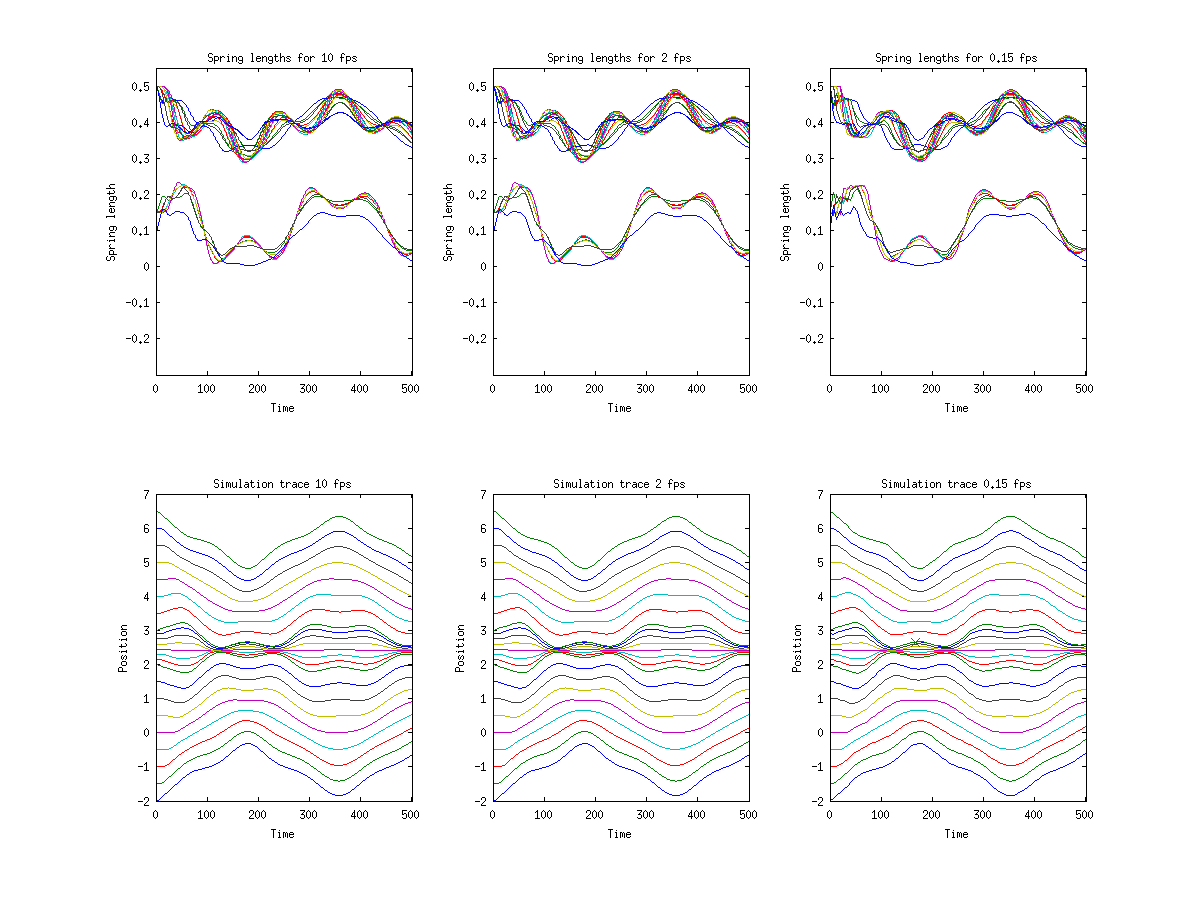
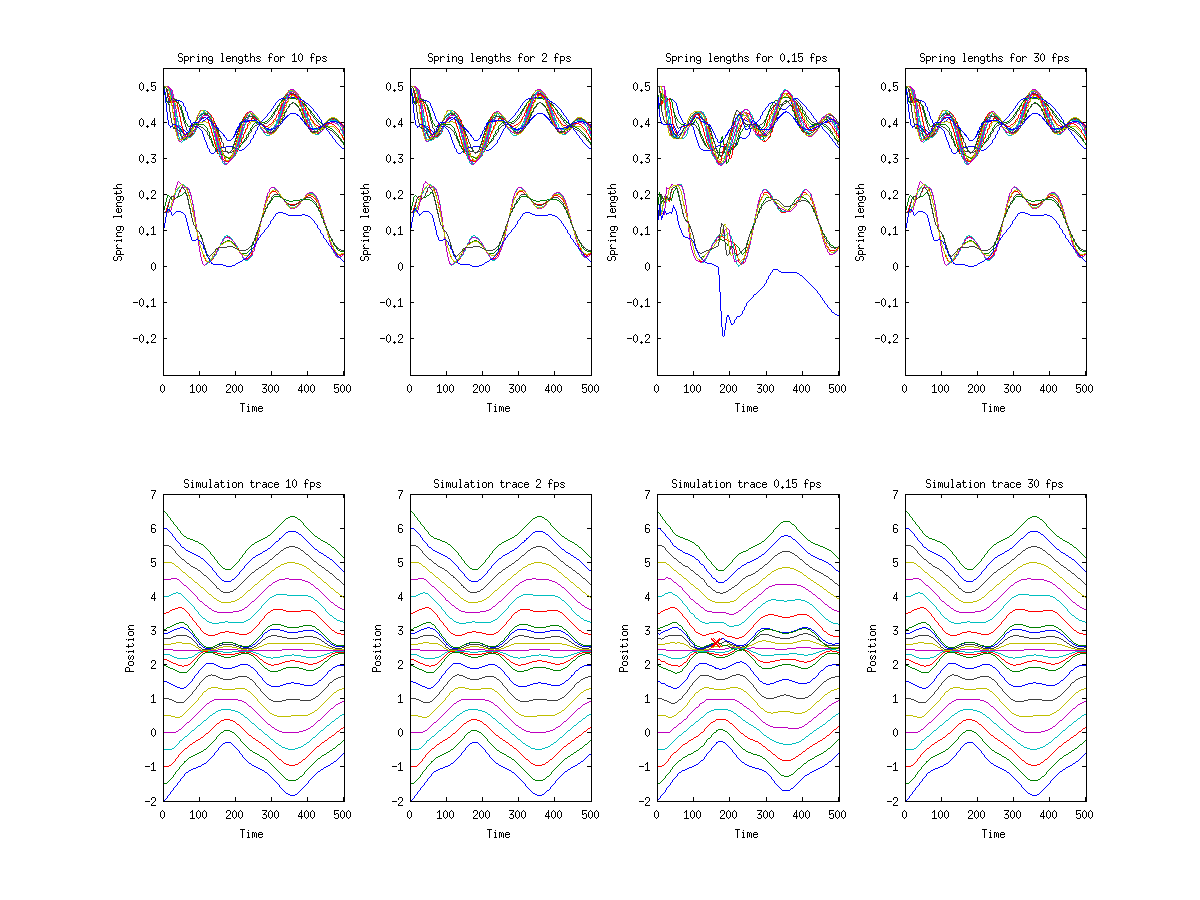
Cleanup of code and report

diff --git a/report/contract.tex b/report/contract.tex
@@ -26,15 +26,16 @@ Course specific learning goals:
 Project specific learning goals:
 \begin{enumerate}
     \item Implement local adaptive optimization of timesteps (LAOT)
-	\item Evaluate LAOT to minimize the risk of unwanted deformations in grids.
+	\item Evaluate LAOT to minimize the risk of unwanted deformations in grids
+        and minimize the computational cost.
     \item Discuss how LAOT is performed in practice using existing 2nd order optimization methods.
-    \item Study of convergence on implemented methods.
 \end{enumerate}
 
 \section{Problem Description}
 
 \subsection{Problem Statement}
-Study the application of locally adaptive timestepping in simulation of hyperelastic materials.
+Study the application of locally adaptive timestepping in 1 dimensional
+simulation of a mass spring system.
 
 \subsection{Motivation}
 When running a simulation of large hyperelastic materials we wish to make
@@ -44,7 +45,8 @@ the mesh from curling up or exploding due to too large determinants of the
 moving mesh vertices. In some hyperelastic materials most of the
 discretized points are able to be simulated using larger timesteps whereas
 smaller areas might need smaller timesteps. These situations are the ones
-we wish to accomodate in this paper.
+we wish to accomodate in this paper by gaining insight into the area of LAOT in
+a simple 1 dimensional simulation (mass spring system).
 
 \subsection{Proposed solution}
 We wish to develop a method for locally adapting the timestep size in
@@ -57,11 +59,7 @@ areas of the grid with smaller timesteps.
 To gain insight into the application of LAOT.
 
 \subsection{Risk assessment}
-Low to none. The technique has been performed before in various shapes and it
-should therefore be do-able.
-
-\cite{Keshav:2007}
-\bibliography{bibliography}
-\bibliographystyle{plain}
+Medium. The technique of LAOT has been performed before in various shapes but
+not the same as our proposed solution.
 
 \end{document}

diff --git a/src/1D/switch/springForces.m b/src/1D/switch/springForces.m
@@ -1,4 +1,5 @@
 function [F, dx] = springForces(positions, springs, v, K, x0, C)
+    element = false;
     % Initialize internal variables
     cntS = size(springs,1);
     cntP = size(positions,1);
@@ -9,23 +10,41 @@ function [F, dx] = springForces(positions, springs, v, K, x0, C)
     dx = zeros(cntS,1);
 
     % Calculate force F of each spring
-    for s = 1:cntS
-        % Endpoints of spring
-        from = springs(s,1);
-        to = springs(s,2);
+    if element
+        for s = 1:cntS
+            % Endpoints of spring
+            from = springs(s,1);
+            to = springs(s,2);
 
-        % Lengh of spring
-        dx(s) = springLength(positions, springs(s,:));
-        l = abs(dx(s));
+            % Lengh of spring
+            dx(s) = springLength(positions, springs(s,:));
+            l = abs(dx(s));
 
-        % Force calculation
-        Fs = K(s) * (l - x0(s));                        % Spring force
-        Fs = Fs + C(s) * (v(from) - v(to)) * dx(s) / l; % Dampening
-        Fs = Fs * (- dx(s) / l);                        % Direction
+            % Force calculation
+            Fs = K(s) * (l - x0(s));                        % Spring force
+            Fs = Fs + C(s) * (v(from) - v(to)) * dx(s) / l; % Dampening
+            Fs = Fs * (- dx(s) / l);                        % Direction
+
+            % Apply forces to endpoints
+            F(from,1) = F(from,1) + Fs;
+            F(to,2) = F(to,2) - Fs;
+        end
+    else
+        % Matrix alternative to spring (element) wise computation
+        from = springs(:,1);
+        to   = springs(:,2);
+
+        dx = springLength(positions, springs);
+        l  = abs(dx);
+
+        Fs = K .* (l - x0);
+        Fs = Fs + C .* (v(from) - v(to)) .* dx ./ l;
+        Fs = Fs .* (-dx ./ l);
 
         % Apply forces to endpoints
         F(from,1) = F(from,1) + Fs;
-        F(to,2) = F(to,2) - Fs;
+        F(to,2)   = F(to,2) - Fs;
+
     end
 
 end

diff --git a/report/report.tex b/report/report.tex
@@ -23,18 +23,18 @@
 \clearpage
 
 \section{Introduction}
-Simulations of large (order of millions of vertices) hyper elastic materials
-are very time consuming. When working with materials of varying density
+simulations of large (order of millions of vertices) hyper elastic materials
+are very time consuming. when working with materials of varying density
 of vertices, the highest densities often make the most strict bounds on
 size of the time step of the simulation in order to keep the materials (and
-grids) stable and the discretization correct. In a ``standard'' simulation
+grids) stable and the discretization correct. in a ``standard'' simulation
 with a global time step size we need to compute possibly unnecessarily many
 computations on the coarser parts of the material caused by this bound.
-When furthermore having materials with a large amount of somewhat equally
+when furthermore having materials with a large amount of somewhat equally
 distributed vertices and smaller patches of detailed areas with higher density
 of vertices, it would be an advantage to be able to perform large time steps
 for the majority of the material and smaller steps for the local patches when
-vertices cause instability. We call this concept local adaptive optimization
+vertices cause instability. we call this concept local adaptive optimization
 of time step, which we will study further in this report.
 
 \section{Previous work}
@@ -114,12 +114,15 @@ Midpoint method:
 
 \section{Experiments and results}
 
-\subsection{Initial though}
-Normal timestepping with switch detection and refinement
+\subsection{Switch}
 
-\subsection{Stepping with interpolation and lockout of re-calculations}
+\subsection{Spatial LAOT}
+
+\subsection{Inverse}
 
 \section{Discussion}
+
+Adaptive timestepping based on highest acceleration/smallest grid
 
 \section{Conclusion}
 

diff --git a/src/1D/initSim.m b/src/1D/initSim.m
@@ -1,0 +1,35 @@
+function simConst = initSim(simulation)
+    switch simulation
+        case 'simple'
+            simConst = struct(...
+                        'damping',   0.01,...
+                        'stiffness', 0.5,...
+                        'spX0',      0.6,...
+                        'mass',      30,...
+                        'particles', [-2:2:2]'...
+                       );
+        case 'inverse'
+            simConst = struct(...
+                        'damping',   0.1,...
+                        'stiffness', 0.5,...
+                        'spX0',      0.52,...
+                        'mass',      30,...
+                        'particles', [-2:2:2]'...
+                       );
+        case 'multiscale'
+            simConst = struct(...
+                        'damping',   0.01,...
+                        'stiffness', 0.5,...
+                        'spX0',      0.6,...
+                        'mass',      30,...
+                        'particles', [-2:0.5:1.99, 2:0.15:2.99, 3:0.5:6.99]'...
+                       );
+        otherwise
+            simConst = struct(...
+                        'damping',   0.5,...
+                        'stiffness', 0.5,...
+                        'spX0',      0.785,...
+                        'mass',      30,...
+                        'particles', [-2:0.5:1.99, 2:0.15:2.99,3:0.5:6.99]'...
+                       );
+end

diff --git a/src/1D/springForces.m b/src/1D/springForces.m
@@ -1,4 +1,4 @@
-function [F, dx] = springForces(positions, springs, lUpdate, v, K, x0, C)
+function [F, dx] = springForces(positions, springs, v, K, x0, C)
     element = false;
     % Initialize internal variables
     cntS = size(springs,1);
@@ -16,7 +16,7 @@ function [F, dx] = springForces(positions, springs, lUpdate, v, K, x0, C)
             from = springs(s,1);
             to = springs(s,2);
 
-            % Lengh of spring
+            % Lenght of spring
             dx(s) = springLength(positions, springs(s,:));
             l = abs(dx(s));
 
@@ -34,13 +34,15 @@ function [F, dx] = springForces(positions, springs, lUpdate, v, K, x0, C)
         from = springs(:,1);
         to   = springs(:,2);
 
+        % Length of spring
         dx = springLength(positions, springs);
         l  = abs(dx);
 
-        Fs = K .* (l - x0);
-        Fs = Fs + C .* (v(from) - v(to)) .* dx ./ l;
-        Fs = Fs .* (-dx ./ l);
+        Fs = K .* (l - x0);                             % Spring force
+        Fs = Fs + C .* (v(from) - v(to)) .* dx ./ l;    % Dampening
+        Fs = Fs .* (-dx ./ l);                          % Direction
 
+        % Apply forces to endpoints
         F(from,1) = F(from,1) + Fs;
         F(to,2)   = F(to,2) - Fs;
 

diff --git a/src/1D/atomic/atomicSim.m b/src/1D/atomic/atomicSim.m
@@ -28,7 +28,6 @@ function [positions, lengths, times, switches, active] = springSim(fps, t_stop, 
     spK = ones(cntS,1) * 0.5;   % Stiffness
     spX0 = pP(sp);
     spX0 = abs(spX0(:,1) - spX0(:,2)) * 0.6;
-    spD = ones(cntS,1) * 0.1;   % Viscous drag
     spL = springLength(pP,sp);  % Length at last update
     spSteps = zeros(cntS,1);    % Number of steps since last update
 
@@ -50,7 +49,7 @@ function [positions, lengths, times, switches, active] = springSim(fps, t_stop, 
         active(end+1) = length(spA);
 
         % Force calculation of active springs/particles
-        [pF dx] = springForces(pP, sp(spA,:), spL, pV,...
+        [pF dx] = springForces(pP, sp(spA,:), pV,...
                                    spK(spA), spX0(spA), spC(spA));
 
         % Position and velocity update
@@ -58,7 +57,7 @@ function [positions, lengths, times, switches, active] = springSim(fps, t_stop, 
         % Detect collisions / switches in position
         l = springLength(pP + dp, sp);
         l2 = springLength(pP, sp);
-        mask = (l .* l2 < 0) & (l+l2 < 0);
+        mask = l .* l2 < 0;
         if any(mask)
             disp('Switch in next iteration!');
             disp(time);

diff --git a/src/1D/atomicSim.m b/src/1D/atomicSim.m
@@ -28,7 +28,6 @@ function [positions, lengths, times, switches, active] = springSim(fps, t_stop, 
     spK = ones(cntS,1) * 0.5;   % Stiffness
     spX0 = pP(sp);
     spX0 = abs(spX0(:,1) - spX0(:,2)) * 0.6;
-    spD = ones(cntS,1) * 0.1;   % Viscous drag
     spL = springLength(pP,sp);  % Length at last update
     spSteps = zeros(cntS,1);    % Number of steps since last update
 
@@ -50,7 +49,7 @@ function [positions, lengths, times, switches, active] = springSim(fps, t_stop, 
         active(end+1) = length(spA);
 
         % Force calculation of active springs/particles
-        [pF dx] = springForces(pP, sp(spA,:), spL, pV,...
+        [pF dx] = springForces(pP, sp(spA,:), pV,...
                                    spK(spA), spX0(spA), spC(spA));
 
         % Position and velocity update
@@ -58,7 +57,7 @@ function [positions, lengths, times, switches, active] = springSim(fps, t_stop, 
         % Detect collisions / switches in position
         l = springLength(pP + dp, sp);
         l2 = springLength(pP, sp);
-        mask = (l .* l2 < 0) & (l+l2 < 0);
+        mask = l .* l2 < 0;
         if any(mask)
             disp('Switch in next iteration!');
             disp(time);

diff --git a/src/1D/run.m b/src/1D/run.m
@@ -1,0 +1,49 @@
+% Clear environment
+clear all;
+close all;
+clc;
+
+% Set up simulation parameters
+t_stop = 500;
+
+
+%% Atomic:
+fpses =      [10, 10, 30];
+stepBounds = [100, 100, 1];
+rFactors =   [inf,  0.2, inf];
+results = cell(length(fpses),5);
+
+% Perform simulations
+for i = 1:length(fpses)
+    disp(fpses(i));
+    [results{i,1}, results{i,2}, results{i,3}, results{i,4}, results{i,5}] = atomicSim(fpses(i),t_stop,stepBounds(i), rFactors(i));
+end
+
+displaySim(results, fpses);
+
+%% Inverse
+fpses =      [10,30];
+stepBounds = [1, 1];
+rFactors =   [inf, inf];
+results = cell(length(fpses),5);
+
+% Perform simulations
+for i = 1:length(fpses)
+    disp(fpses(i));
+    [results{i,1}, results{i,2}, results{i,3}, results{i,4}, results{i,5}] = inverseSim(fpses(i),t_stop,stepBounds(i), rFactors(i));
+end
+results
+displaySim(results, fpses);
+
+
+displaySim(results, fpses);
+
+%% Switch
+fpses = [10, 2, 0.15, 30];
+results = cell(length(fpses),4);
+for i = 1:length(fpses)
+    disp(['Simulation: ' num2str(fpses(i))]);
+    [results{i,1}, results{i,2}, results{i,3}, results{i,4}] = springSim(fpses(i),t_stop);
+end
+
+displaySim(results, fpses);

diff --git a/src/1D/atomic/springForces.m b/src/1D/atomic/springForces.m
@@ -1,4 +1,4 @@
-function [F, dx] = springForces(positions, springs, lUpdate, v, K, x0, C)
+function [F, dx] = springForces(positions, springs, v, K, x0, C)
     element = false;
     % Initialize internal variables
     cntS = size(springs,1);
@@ -41,6 +41,7 @@ function [F, dx] = springForces(positions, springs, lUpdate, v, K, x0, C)
         Fs = Fs + C .* (v(from) - v(to)) .* dx ./ l;
         Fs = Fs .* (-dx ./ l);
 
+        % Apply forces to endpoints
         F(from,1) = F(from,1) + Fs;
         F(to,2)   = F(to,2) - Fs;
 

diff --git a/src/1D/inverse/springForces.m b/src/1D/inverse/springForces.m
@@ -1,4 +1,4 @@
-function [F, dx] = springForces(positions, springs, lUpdate, v, K, x0, C)
+function [F, dx] = springForces(positions, springs, v, K, x0, C)
     element = false;
     % Initialize internal variables
     cntS = size(springs,1);
@@ -41,6 +41,7 @@ function [F, dx] = springForces(positions, springs, lUpdate, v, K, x0, C)
         Fs = Fs + C .* (v(from) - v(to)) .* dx ./ l;
         Fs = Fs .* (-dx ./ l);
 
+        % Apply forces to endpoints
         F(from,1) = F(from,1) + Fs;
         F(to,2)   = F(to,2) - Fs;
 

diff --git a/src/1D/switch/run.m b/src/1D/switch/run.m
@@ -1,9 +1,14 @@
+% Clear environment
 clear all;
 close all;
+clc;
+
+% Set up simulation parameters
 t_stop = 500;
-fpses = [10, 2, 0.15];
+fpses = [10, 2, 0.15, 30];
 results = cell(length(fpses),4);
 for i = 1:length(fpses)
+    disp(['Simulation: ' num2str(fpses(i))]);
     [results{i,1}, results{i,2}, results{i,3}, results{i,4}] = springSim(fpses(i),t_stop);
 end
 

diff --git a/src/1D/switch/displaySim.m b/src/1D/switch/displaySim.m
@@ -7,7 +7,7 @@ function displaySim(data, fps)
     for i = 1:cntD
         i0 = i-1;
         plot1 = i;
-        plot2 = plot1+3;
+        plot2 = plot1+size(data,1);
         subplot(2, cntD, plot1);
         plot(data{i,3},data{i,2});
         title(['Spring lengths for ' num2str(fps(i)) ' fps']);
